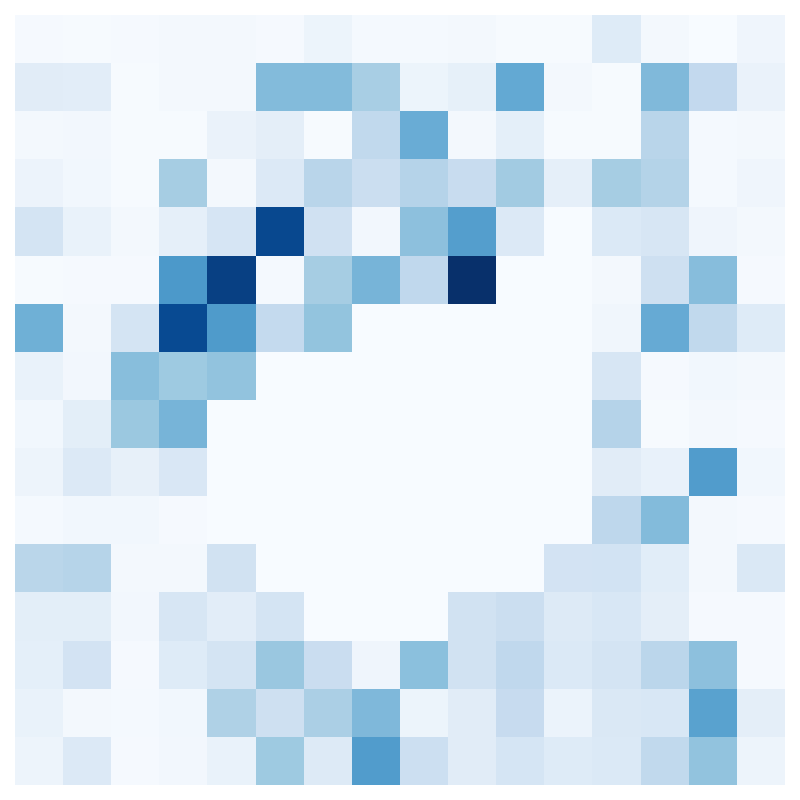
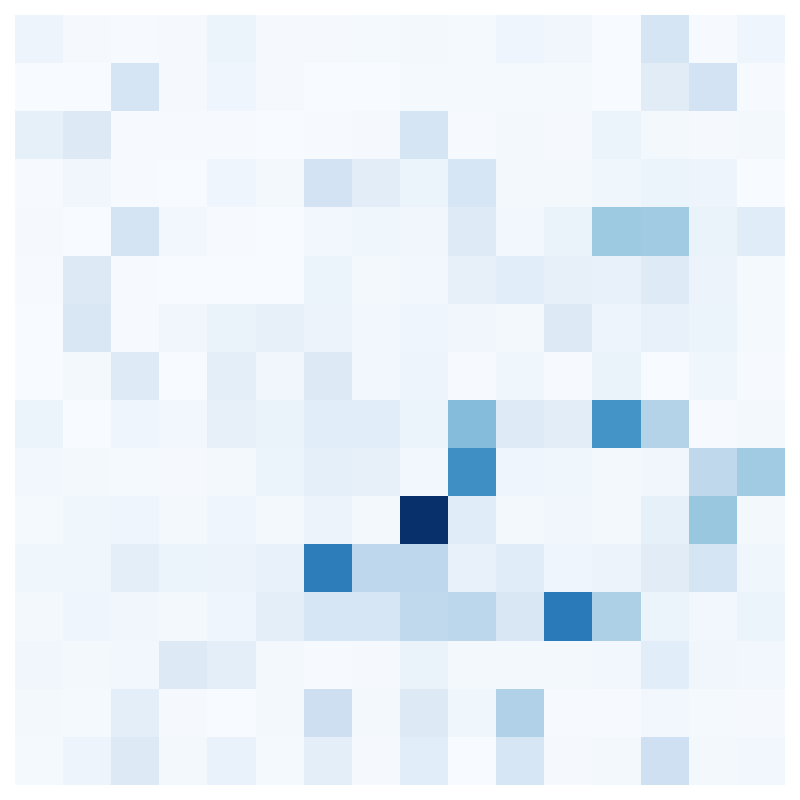
update prove mascherando patches di clip

diff --git a/nxtp_ours/src/models/lang.py b/nxtp_ours/src/models/lang.py
@@ -131,14 +131,15 @@ class Attention(nn.Module):
         attn = torch.matmul(q, k.transpose(2, 3)) / math.sqrt(self.n_embd)
         if mask is not None:
             attn = attn + mask
-        attn = F.softmax(attn, dim=-1)
-
-        attention_to_remove = torch.load('output/patch_matrix_0_0.pt')
-        attention_to_remove = 1 - attention_to_remove
-
+        # attention_to_remove = torch.load('output/patch_matrix_0_0.pt')
+        # attention_to_remove = 1 - attention_to_remove
 
         # Filtriamo le attenzioni per ogni testa
-        attn[0, :, -1, :256] = attn[0, :, -1, :256] * attention_to_remove.flatten().cuda()
+
+        attn = F.softmax(attn, dim=-1)
+        # for i in range(attn.shape[2]):
+        #     attn[0, :, i, :256] = attn[0, :, i, :256] * attention_to_remove.flatten().cuda()
+        # attn[0, :, -1, :256] = attn[0, :, -1, :256] * attention_to_remove.flatten().cuda()
 
         if cached_tensors is not None:
             layer_idx = cached_tensors["layer_idx"]
@@ -179,6 +180,7 @@ class TransformerBlock(nn.Module):
         self.ffn_norm = RMSNorm(args.dim, eps=args.norm_eps)
 
     def forward(self, x, freqs_cis, mask, cached_tensors=None):
+
         h = self.attention_norm(x)
         # trovata attention
         a = self.attention.forward(

diff --git a/lang-sam/test.py b/lang-sam/test.py
@@ -30,10 +30,11 @@ def build_preprocess(input_size):
 if __name__ == "__main__":
 
     model = LangSAM()
-    image_pil = Image.open("nxtp/assets/d0g.png").convert("RGB")
+    filename = "nintendo"
+    image_pil = Image.open(f"nxtp/assets/{filename}.jpg").convert("RGB")
     image_pil = build_preprocess(224)(image_pil)
 
-    text_prompt = "dog."
+    text_prompt = "morning."
     results = model.predict([image_pil], [text_prompt])
 
     # Directory for output files
@@ -80,7 +81,7 @@ if __name__ == "__main__":
             patch_matrix_tensor = torch.tensor(patch_matrix, dtype=torch.int)
 
             # Salva il tensore su un file
-            torch.save(patch_matrix_tensor, f"{output_dir}/patch_matrix_{idx}_{mask_idx}.pt")
+            torch.save(patch_matrix_tensor, f"{output_dir}/patch_matrix_{idx}_{mask_idx}_{filename}.pt")
             plt.figure(figsize=(6, 6))
             plt.imshow(patch_matrix, cmap="gray", interpolation="nearest")
             plt.title(f"Patch Matrix for Mask {mask_idx}")

diff --git a/nxtp_ours/src/models/clip.py b/nxtp_ours/src/models/clip.py
@@ -96,8 +96,15 @@ class CLIPViT(nn.Module):
         x = torch.cat([class_embed, x], dim=1)  # shape = [*, grid ** 2 + 1, width]
 
         x = x + self.positional_embedding
-        x = self.ln_pre(x)
 
+        attention_to_remove = torch.load('output/patch_matrix_0_0_nintendo.pt')
+        attention_to_remove = 1 - attention_to_remove
+        attention_to_remove = attention_to_remove.flatten().cuda()
+        attention_to_remove = torch.cat([attention_to_remove, torch.ones(x.shape[1] - attention_to_remove.size(0)).cuda()])
+        indices_to_mantain = torch.nonzero(attention_to_remove == 1).flatten()
+        x = x[:, indices_to_mantain, :]
+
+        x = self.ln_pre(x)
         x = x.permute(1, 0, 2)  # NLD -> LND
         x = self.transformer(x)
         x = x.permute(1, 0, 2)  # LND -> NLD

diff --git a/nxtp_ours/src/infer.py b/nxtp_ours/src/infer.py
@@ -243,7 +243,7 @@ def main(
 
                 print(f"visualizing attention map for {k}")
                 attn_map = cached_tensors[k]
-                get_last_token_attention_map(attn_map, filename=f"layer{k}.png")
+                # get_last_token_attention_map(attn_map, filename=f"layer{k}.png")
                 continue
                 # extract the attention map for image tokens
                 ii = dummy_token_index_obj
